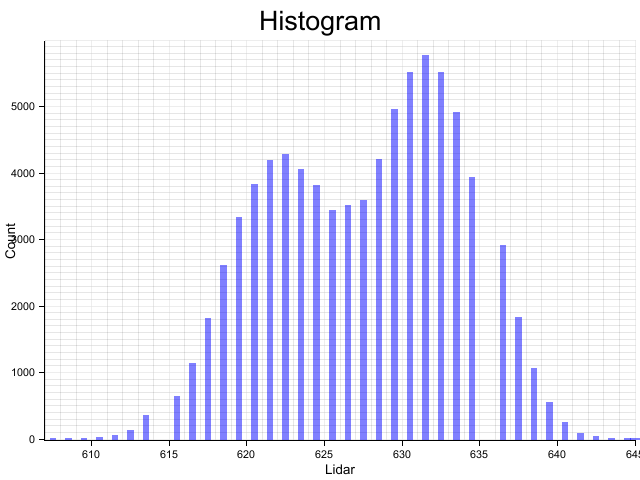
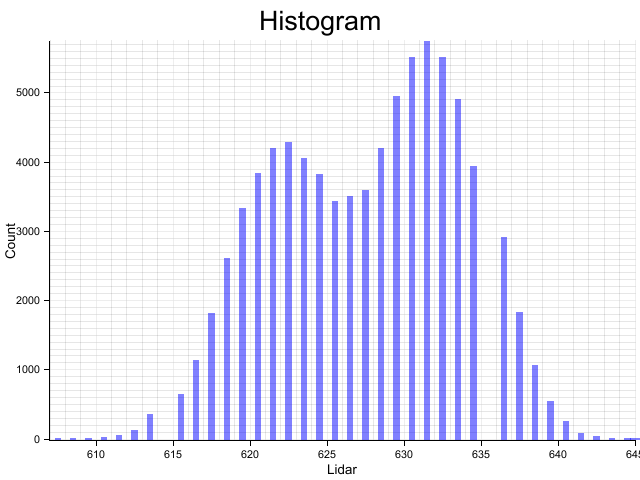
add lidar 600

diff --git a/LNPR_BOOK/lidar_600/src/main.rs b/LNPR_BOOK/lidar_600/src/main.rs
@@ -1,4 +1,3 @@
-use num_traits;
 use plotters::prelude::*;
 use polars::prelude::*;
 use std::fs::File;
@@ -16,8 +15,7 @@ fn read_txt() -> Result<DataFrame> {
 fn rename_cols(mut df: DataFrame) -> Result<DataFrame> {
     let names = ["date", "time", "ir", "lidar"];
     names.iter().enumerate().for_each(|(i, name)| {
-        df.rename(format!("{}{}", "column_", i + 1).as_str(), &name)
-            .ok();
+        df.rename(format!("column_{}", i + 1).as_str(), &name).ok();
     });
 
     Ok(df)
@@ -35,10 +33,14 @@ fn pipeline() -> Result<DataFrame> {
         .pipe(rename_cols)?
         .pipe(print_state)
         .unwrap()
-        .pipe(draw_lidar)
+        .pipe(draw_lidar_histogram)
+        .unwrap()
+        .pipe(draw_lidar_lineplot)
+        .unwrap()
+        .pipe(draw_lidar_groupby_mean)
 }
 
-fn draw_lidar(df: DataFrame) -> Result<DataFrame> {
+fn draw_lidar_histogram(df: DataFrame) -> Result<DataFrame> {
     let lidar_vec = df
         .column("lidar")
         .unwrap()
@@ -58,15 +60,125 @@ fn draw_lidar(df: DataFrame) -> Result<DataFrame> {
     Ok(df)
 }
 
-fn draw_series_histogram<T: num_traits::Num + Ord + std::hash::Hash>(
+fn draw_lidar_lineplot(df: DataFrame) -> Result<DataFrame> {
+    let lidar_vec = df
+        .column("lidar")
+        .unwrap()
+        .i64()
+        .unwrap()
+        .into_iter()
+        .map(|opt_x| opt_x.unwrap())
+        .collect::<Vec<i64>>();
+
+    draw_series_lineplot(
+        &lidar_vec,
+        "lidar_600_lineplot.png",
+        (800, 600),
+        "Lidar",
+        "time",
+        "lidar",
+        ("sans-serif", 30),
+        ("sans-serif", 15),
+    );
+
+    Ok(df)
+}
+
+fn draw_lidar_groupby_mean(mut df: DataFrame) -> Result<DataFrame> {
+    let mut hour: Series = df
+        .column("time")
+        .unwrap()
+        .i64()
+        .unwrap()
+        .into_iter()
+        .map(|opt_x| match opt_x {
+            Some(x) => Some(x / 10000),
+            None => None,
+        })
+        .collect();
+
+    hour.rename("hour");
+
+    df = df.with_column(hour).unwrap();
+    let lidar_mean_df = df.groupby("hour").unwrap().select("lidar").mean().unwrap();
+    let lidar_mean_vec = lidar_mean_df
+        .column("lidar_mean")
+        .unwrap()
+        .f64()
+        .unwrap()
+        .into_iter()
+        .map(|opt_x| opt_x.unwrap())
+        .collect::<Vec<f64>>();
+
+    draw_series_lineplot(
+        &lidar_mean_vec,
+        "lidar_600_mean_by_hour.png",
+        (400, 300),
+        "Lidar mean by hour",
+        "hour",
+        "lidar mean",
+        ("sans-serif", 15),
+        ("sans-serif", 8),
+    );
+
+    Ok(df)
+}
+
+fn draw_series_lineplot<T: Into<i64> + Copy + Ord>(
+    series: &Vec<T>,
+    name: &str,
+    figsize: (u32, u32),
+    caption: &str,
+    xlabel: &str,
+    ylabel: &str,
+    caption_font_spec: (&str, i32),
+    axis_font_spec: (&str, i32),
+) {
+    let max: i64 = (*series.iter().max().unwrap()).into();
+    let min: i64 = (*series.iter().min().unwrap()).into();
+
+    let num_points = series.len() as i64;
+
+    let (xsize, ysize) = figsize;
+
+    let root = BitMapBackend::new(name, figsize).into_drawing_area();
+    root.fill(&WHITE).unwrap();
+
+    let mut chart = ChartBuilder::on(&root)
+        .x_label_area_size(xsize / 10)
+        .y_label_area_size(ysize / 10)
+        .caption(caption, caption_font_spec)
+        .build_cartesian_2d(0i64..num_points, min..max)
+        .unwrap();
+
+    chart
+        .configure_mesh()
+        .disable_mesh()
+        .x_desc(xlabel)
+        .y_desc(ylabel)
+        .axis_desc_style(axis_font_spec)
+        .draw()
+        .unwrap();
+
+    chart
+        .draw_series(LineSeries::new(
+            (0..num_points)
+                .zip(series.iter())
+                .map(|(x, y)| (x, (*y).into())),
+            &BLUE,
+        ))
+        .unwrap();
+}
+
+fn draw_series_histogram<T: Into<i64> + Copy + Ord + std::hash::Hash>(
     series: &Vec<T>,
     name: &str,
     caption: &str,
     xlabel: &str,
     ylabel: &str,
 ) {
-    let max: T = *series.iter().max().unwrap();
-    let min: T = *series.iter().min().unwrap();
+    let max: i64 = (*series.iter().max().unwrap()).into();
+    let min: i64 = (*series.iter().min().unwrap()).into();
 
     let mut appearance = std::collections::HashMap::new();
     series.iter().for_each(|x| {
@@ -80,10 +192,10 @@ fn draw_series_histogram<T: num_traits::Num + Ord + std::hash::Hash>(
 
     let mut chart = ChartBuilder::on(&root)
         .x_label_area_size(35)
-        .y_label_area_size(40)
+        .y_label_area_size(45)
         .margin(5)
         .caption(caption, ("sans-serif", 30))
-        .build_cartesian_2d((min..max), 0..ymax)
+        .build_cartesian_2d(min..max, 0..ymax)
         .unwrap();
 
     chart
@@ -99,7 +211,7 @@ fn draw_series_histogram<T: num_traits::Num + Ord + std::hash::Hash>(
         .draw_series(
             Histogram::vertical(&chart)
                 .style(BLUE.mix(0.5).filled())
-                .data(series.into_iter().map(|x| (x, 1))),
+                .data(series.into_iter().map(|x| (*x, 1))),
         )
         .unwrap();
 }
